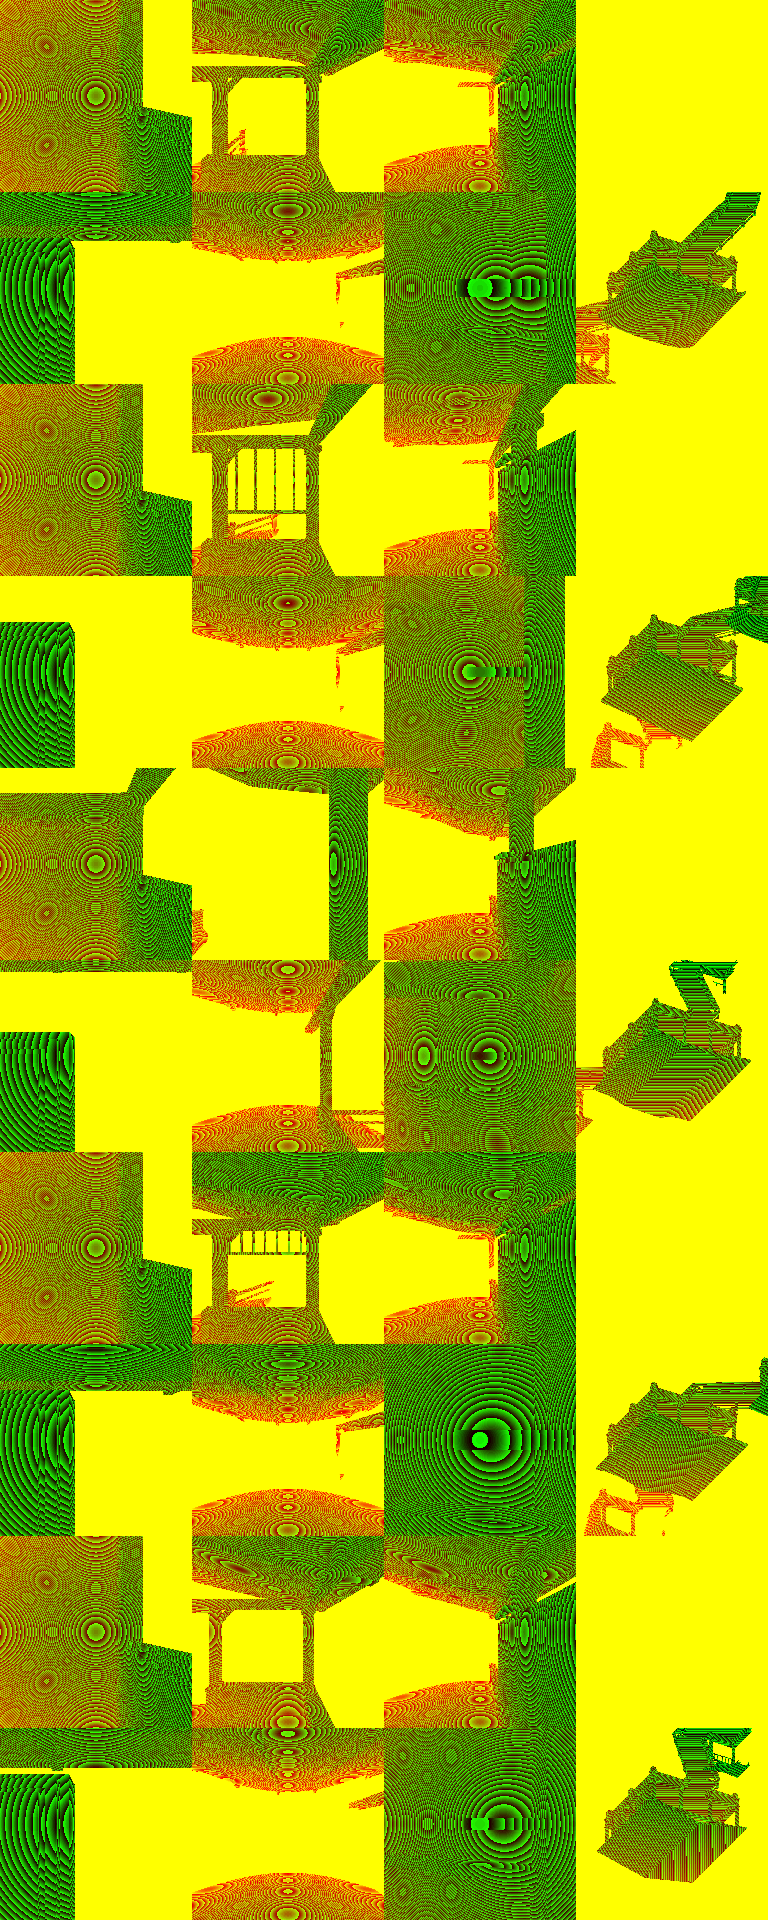
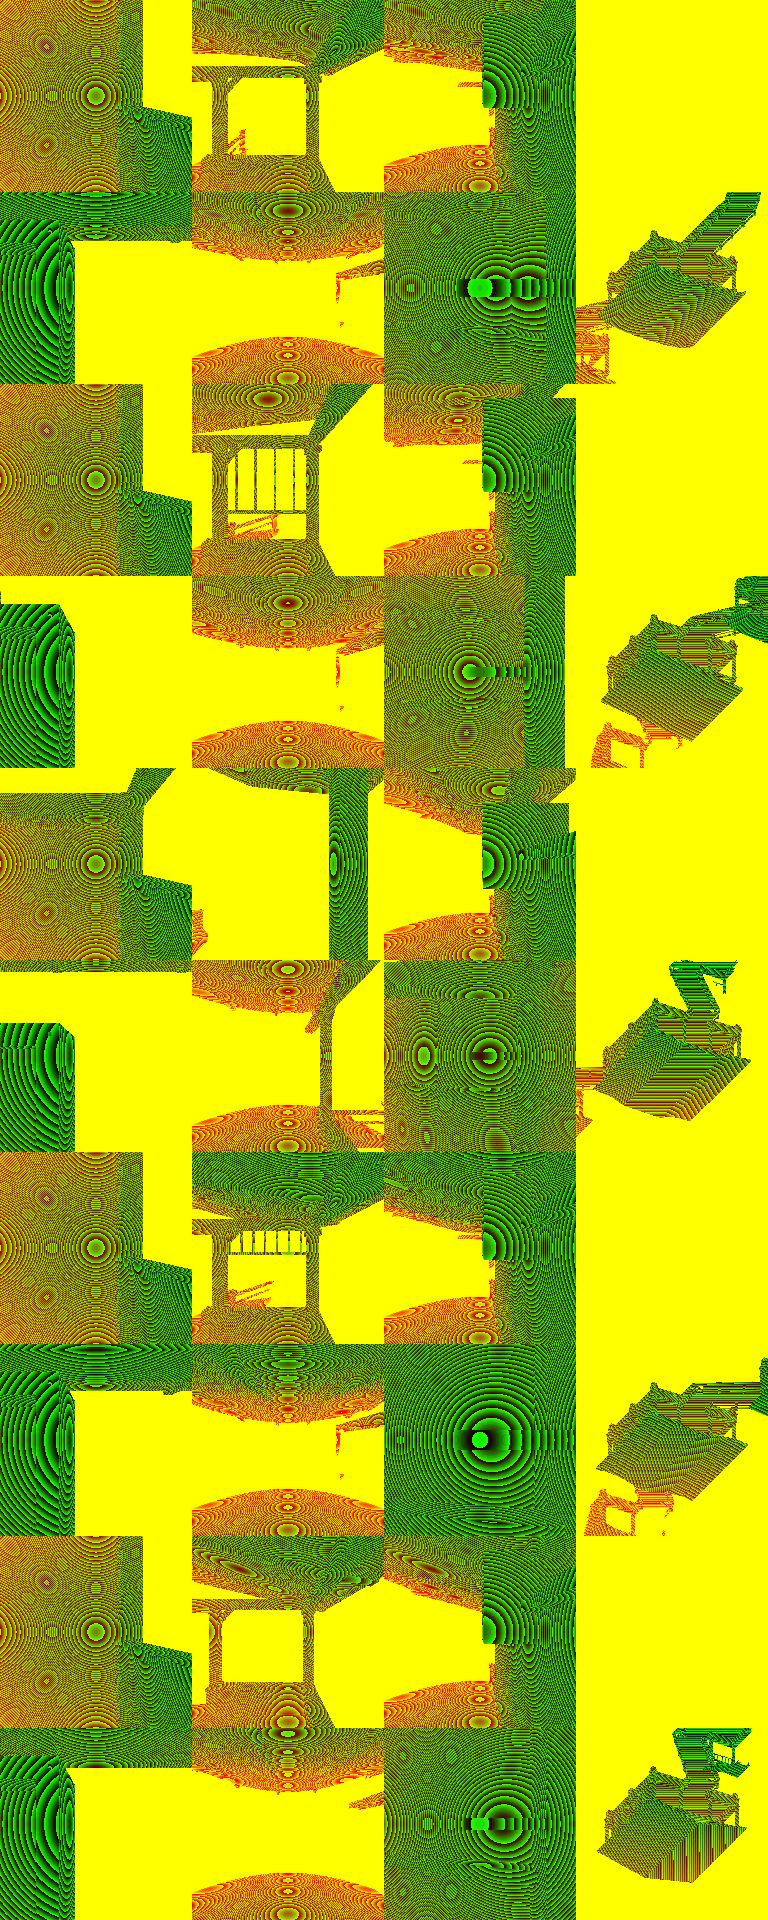
Rebuild memorial gallery frames and picture lights

diff --git a/docs/garden.js b/docs/garden.js
@@ -468,8 +468,11 @@
     const edge = new T.MeshStandardMaterial({map:limestone,color:color('#84919c'),roughness:.66});
     const bronze = new T.MeshStandardMaterial({color:color('#bc9b71'),roughness:.43,metalness:.28});
     const linen = new T.MeshStandardMaterial({color:color('#c4b7a5'),roughness:1});
+    const frameOak=new T.MeshStandardMaterial({color:color('#62564c'),roughness:.73});
     const pictureMetal=new T.MeshStandardMaterial({color:color('#62503d'),roughness:.49,metalness:.38});
-    const pictureBulb=new T.MeshBasicMaterial({color:color('#ffd490')});
+    const pictureBrass=new T.MeshStandardMaterial({color:color('#a68a58'),roughness:.42,metalness:.67});
+    const pictureBulb=new T.MeshBasicMaterial({color:color('#fff0c7'),toneMapped:false});
+    const frameScrew=new T.MeshStandardMaterial({color:color('#494745'),roughness:.57,metalness:.55});
     const blockers=[];
     function blockWalking(x,z,width,depth){
       blockers.push({x,z,halfWidth:width/2,halfDepth:depth/2});
@@ -491,32 +494,50 @@
     photoUniforms.photograph.value=atlasMap;
     atlasMap.encoding=T.sRGBEncoding;atlasMap.anisotropy=Math.min(8,renderer.capabilities.getMaxAnisotropy());
     const photoMat=new T.MeshStandardMaterial({
-      map:atlasMap,emissiveMap:atlasMap,emissive:color('#efe2cf'),emissiveIntensity:.12,
+      map:atlasMap,emissiveMap:atlasMap,emissive:color('#efe2cf'),emissiveIntensity:.074,
       color:color('#f1e6d6'),roughness:.96
     });
     const pictureGlass=new T.ShaderMaterial({
       transparent:true,depthWrite:false,
-      uniforms:{nearbyLantern:{value:new T.Vector3()}},
+      uniforms:{galleryReflections:{value:Array.from({length:4},()=>new T.Vector4())}},
       vertexShader:`varying vec3 glassPosition,glassNormal;
+        varying vec2 glassUV;
         void main(){
           glassPosition=(modelMatrix*vec4(position,1.)).xyz;
           glassNormal=mat3(modelMatrix)*normal;
+          glassUV=uv;
           gl_Position=projectionMatrix*modelViewMatrix*vec4(position,1.);
         }`,
-      fragmentShader:`uniform vec3 nearbyLantern;
+      fragmentShader:`uniform vec4 galleryReflections[4];
         varying vec3 glassPosition,glassNormal;
+        varying vec2 glassUV;
+        float grain(vec2 p){return fract(52.9829189*fract(dot(p,vec2(.06711056,.00583715))));}
         void main(){
           vec3 view=normalize(cameraPosition-glassPosition);
           vec3 normal=normalize(glassNormal);
           vec3 reflectedRay=reflect(-view,normal);
-          float fresnel=.009+.13*pow(1.-max(dot(view,normal),0.),5.);
-          float glint=pow(max(dot(reflectedRay,normalize(nearbyLantern-glassPosition)),0.),54.);
-          vec3 sky=mix(vec3(.035,.064,.107),vec3(.12,.20,.30),smoothstep(-.22,.40,reflectedRay.y));
-          gl_FragColor=vec4(mix(sky,vec3(.88,.38,.11),glint),fresnel+.048*glint);
+          float grazing=pow(1.-max(dot(view,normal),0.),5.);
+          float glint=0.;
+          for(int i=0;i<4;i++){
+            vec4 lamp=galleryReflections[i];
+            vec3 delta=lamp.xyz-glassPosition;
+            float dist=max(.35,length(delta));
+            float cone=1.-dot(reflectedRay,delta/dist);
+            float size=max(.015,lamp.w*.47/dist);
+            glint+=exp(-1.20*cone/(size*size))*step(.01,lamp.w)*(1.-smoothstep(5.,14.,dist));
+          }
+          vec2 reflectedSky=vec2(atan(reflectedRay.z,reflectedRay.x),reflectedRay.y)*vec2(52.,66.);
+          float star=step(.988,grain(floor(reflectedSky)))*exp(-22.*dot(fract(reflectedSky)-.5,fract(reflectedSky)-.5));
+          float skyHeight=smoothstep(-.15,.44,reflectedRay.y);
+          float dust=step(.989,grain(floor(glassUV*385.)))*(.16+.70*grazing);
+          float sheen=.007+.105*grazing+.011*dust;
+          vec3 sky=mix(vec3(.028,.053,.082),vec3(.17,.25,.36),skyHeight)+star*.25*skyHeight;
+          float warm=min(1.,glint)*(.078+.075*grazing);
+          gl_FragColor=vec4(mix(sky,vec3(1.,.55,.21),warm/max(.001,sheen+warm)),sheen+warm);
           #include <encodings_fragment>
         }`
     });
-    const portraits=[];
+    const portraits=[],glazedFrames=[];
     // The shade is a closed paper envelope at the top and open at its bamboo hoop.
     const lanterns=[], fixtures=[];
     const paperMap=painted(256,(ctx,n)=>{
@@ -615,7 +636,7 @@
     function shadowVariant(mode=shadowValues?.riverShadowMode.value ?? 0){
       return mode===0?'off':'map';
     }
-    function finishRailing(shader,finish){
+    function finishJoinery(shader,finish){
       const axes=finish.horizontal?'xzy':'xyz';
       const varyings='varying vec4 railPosition;\nvarying vec3 railNormal;\n';
       shader.uniforms.railFinishMap={value:finish.map};
@@ -698,12 +719,13 @@
         const isStone=material.map===limestone;
         const isCap=material===edge;
         const isPrint=material===photoMat,isMat=material===linen,isDeck=material===timber;
-        const railFinish=railingFinishes.get(material);
+        const isFrame=material===frameOak;
+        const grainFinish=joineryFinishes.get(material);
         const isDeckTrim=material===headerPlank || material===walkwayTrim;
-        const exterior=isStone || isDeck || railFinish || isDeckTrim;
-        const profile=isStone?'stone':isPrint?'print':isMat?'mat':isDeck?'deck':isDeckTrim?'deck-trim':'lanterns';
+        const exterior=isStone || isDeck || isDeckTrim || (grainFinish && material!==uprightCedar);
+        const profile=isStone?'stone':isPrint?'print':isMat?'mat':isFrame?'frame':isDeck?'deck':isDeckTrim?'deck-trim':'lanterns';
         material.customProgramCacheKey=()=>'river-'+profile+'-'+shadowVariant()+(movingEnabled?'-moving':'')
-          +(railFinish?'-railing-'+material.id:exterior?'-exterior':'');
+          +(grainFinish?'-joinery-'+material.id:exterior?'-exterior':'');
         material.onBeforeCompile=shader=>{
           const variant=shadowVariant(),castShadows=variant!=='off';
           addRiverMist(shader);
@@ -817,23 +839,53 @@
             roughnessFactor=mix(roughnessFactor,${isStone?'.39':'.31'},wetness*.74);
           `);
           if(castShadows)riverShadows.receive(T,shader,shadowValues,rooms.length);
-          if(isPrint || isMat){
+          if(isPrint || isMat || isFrame){
             // Light from the bar above each frame falls across the print and mat.
             const pictureVarying='varying vec3 pictureFace;\n';
-            shader.vertexShader=pictureVarying+(isPrint?'attribute vec2 pictureUV;\n':'')
+            shader.vertexShader=pictureVarying+'attribute vec2 pictureUV;\n'
+              +(isFrame?'varying vec2 frameUV;\n':'')
               +shader.vertexShader.replace('#include <begin_vertex>',`
               #include <begin_vertex>
-              pictureFace=vec3(${isPrint?'pictureUV,1.':'position.xy+.5,max(normal.z,0.)'});
+              pictureFace=vec3(pictureUV,max(0.,normal.z));
+              ${isFrame?'frameUV=uv;':''}
             `);
             shader.fragmentShader=pictureVarying+shader.fragmentShader.replace('#include <lights_fragment_maps>',`
               #include <lights_fragment_maps>
-              float down=clamp(1.-pictureFace.y,0.,1.);
-              float spread=mix(.35,.71,sqrt(down));
-              float beam=1.-smoothstep(spread*.36,spread,abs(pictureFace.x-.5));
-              float wash=beam/(1.+1.1*down);
-              vec3 pictureLight=vec3(1.,.78,.59)*pictureFace.z*(.86+1.75*wash);
+              float down=max(.035,1.14-pictureFace.y);
+              float spread=mix(.28,.83,sqrt(min(1.,down)));
+              float beam=1.-smoothstep(spread*.43,spread,abs(pictureFace.x-.5));
+              float wash=beam/(1.+2.5*down+1.3*down*down);
+              vec3 pictureLight=vec3(1.,.84,.66)*pictureFace.z*(${isFrame?'.06+2.7*wash':'.39+2.8*wash'});
               reflectedLight.directDiffuse+=BRDF_Diffuse_Lambert(material.diffuseColor)*pictureLight;
             `);
+          }
+          if(isMat || isPrint)shader.fragmentShader=shader.fragmentShader.replace('#include <color_fragment>',`
+            #include <color_fragment>
+            vec2 paperCell=floor(pictureFace.xy*vec2(750.,560.));
+            float paperNoise=fract(52.9829189*fract(dot(paperCell,vec2(.06711056,.00583715))));
+            float detail=1.-smoothstep(.55,2.2,max(fwidth(pictureFace.x)*750.,fwidth(pictureFace.y)*560.));
+            float lip=min(abs(.5-abs(pictureFace.x-.5)),abs(.5-abs(pictureFace.y-.5)));
+            float rebate=smoothstep(0.,.027,lip);
+            diffuseColor.rgb*=mix(${isMat?'.82':'.87'},1.,rebate)*(1.+${isMat?'.20':'.026'}*(paperNoise-.5)*detail);
+          `);
+          if(isFrame){
+            shader.uniforms.oakGrain={value:railGrain};
+            shader.fragmentShader='varying vec2 frameUV;uniform sampler2D oakGrain;\n'+shader.fragmentShader
+              .replace('#include <color_fragment>',`
+                #include <color_fragment>
+                vec3 fibre=texture2D(oakGrain,frameUV).rgb;
+                float stains=texture2D(oakGrain,frameUV*vec2(.44,.57)+.31).b;
+                diffuseColor.rgb*=mix(.52,1.34,smoothstep(.21,.80,fibre.b))*mix(.69,1.22,stains);
+              `).replace('#include <roughnessmap_fragment>',`
+                #include <roughnessmap_fragment>
+                roughnessFactor=clamp(roughnessFactor+.39*(fibre.g-.46),.50,.91);
+              `).replace('#include <normal_fragment_maps>',`
+                #include <normal_fragment_maps>
+                vec3 dx=dFdx(-vViewPosition),dy=dFdy(-vViewPosition);
+                vec3 tx=cross(dy,normal),ty=cross(normal,dx);
+                float det=dot(dx,tx),relief=.0014*fibre.r+.0007*stains;
+                normal=normalize(max(abs(det),1e-7)*normal-sign(det)*(tx*dFdx(relief)+ty*dFdy(relief)));
+              `);
           }
           if(isDeck){
             shader.uniforms.boardGrainMap={value:railGrain};
@@ -945,7 +997,7 @@
               normal=normalize(max(abs(stoneDet),1e-7)*normal-microRelief);
             `);
           }
-          if(railFinish)finishRailing(shader,railFinish);
+          if(grainFinish)finishJoinery(shader,grainFinish);
           if(exterior){
             shader.fragmentShader=shader.fragmentShader.replace('#include <lights_fragment_maps>',`
               #include <lights_fragment_maps>
@@ -1235,9 +1287,7 @@
     const cedar=new T.MeshStandardMaterial({
       map:cedarMap,bumpMap:cedarMap,bumpScale:.011,roughnessMap:cedarFinish,roughness:.83,color:color('#b58d72')
     });
-    const uprightCedar=cedar.clone();
-    uprightCedar.bumpScale=.014;
-    uprightCedar.roughness=.73;
+    const uprightCedar=new T.MeshStandardMaterial({color:color('#795f52'),roughness:.72});
     const railWood=new T.MeshStandardMaterial({color:color('#805743'),roughness:.54});
     const plinth=new T.MeshStandardMaterial({color:color('#35434f'),roughness:.69,vertexColors:true});
     const railCap=new T.MeshStandardMaterial({color:color('#a88b63'),roughness:.40,metalness:1});
@@ -1288,7 +1338,9 @@
     walkwayTrim.color.copy(color('#afaaa1'));
     const headerPlank=timber.clone();
     headerPlank.color.copy(color('#b3aea5'));
-    const railingFinishes=new Map([
+    const joineryFinishes=new Map([
+      [uprightCedar,{map:railGrain,scale:'vec3(1.85,.59,1.85)',wear:'.09',relief:'.00082'}],
+      [pictureBrass,{map:castFinish,scale:'vec3(5.3)',wear:'.24',relief:'.00058',patina:true}],
       [railWood,{map:railGrain,horizontal:true,scale:'vec3(3.7,.65,3.7)',wear:'.18',relief:'.00094'}],
       [plinth,{map:railGrain,scale:'vec3(4.2,1.05,4.2)',wear:'.25',relief:'.00120',groundContact:true}],
       [railCap,{map:castFinish,scale:'vec3(4.6)',wear:'.32',relief:'.00062',patina:true}],
@@ -1487,6 +1539,44 @@
         uv.setXY(j,(ax+.5+uv.getX(j)*(aw-1))/2048,1-(ay+.5+(1-uv.getY(j))*(ah-1))/2048);
       return geo;
     }
+    function frameBorder(w,h,profile,miter=0){
+      const positions=[],grain=[],picture=[];
+      const corners=[[-1,-1],[1,-1],[1,1],[-1,1]];
+      for(let side=0;side<4;side++){
+        const [sx,sy]=corners[side],[ex,ey]=corners[(side+1)%4];
+        const horizontal=sy===ey;
+        const rings=profile.map(([margin,depth])=>{
+          const x=w/2+margin,y=h/2+margin;
+          const a=[sx*x+(ex-sx)*miter/2,sy*y+(ey-sy)*miter/2,depth];
+          const b=[ex*x-(ex-sx)*miter/2,ey*y-(ey-sy)*miter/2,depth];
+          return [a,b,margin];
+        });
+        for(let i=0;i<rings.length;i++){
+          const [a,b,outer]=rings[i],[c,d,inner]=rings[(i+1)%rings.length];
+          for(const [point,margin] of [[a,outer],[b,outer],[d,inner],[a,outer],[d,inner],[c,inner]]){
+            positions.push(...point);
+            grain.push((margin+point[2]*.24)*6.9+side*.29,(horizontal?point[0]:point[1])*.77+side*.37);
+            picture.push(point[0]/w+.5,point[1]/h+.5);
+          }
+        }
+      }
+      const geometry=new T.BufferGeometry();
+      geometry.setAttribute('position',new T.Float32BufferAttribute(positions,3));
+      geometry.setAttribute('uv',new T.Float32BufferAttribute(grain,2));
+      geometry.setAttribute('pictureUV',new T.Float32BufferAttribute(picture,2));
+      geometry.computeVertexNormals();
+      return geometry;
+    }
+    const oakProfile=[
+      [.207,-.066],[.210,-.056],[.210,.077],[.202,.097],[.190,.102],
+      [.118,.102],[.109,.090],[.105,.074],[.105,.032],[.129,-.066]
+    ];
+    const paperProfile=[[.130,.018],[.130,.061],[.008,.061],[-.002,.041],[-.002,.026]];
+    const pictureTube=new T.CylinderGeometry(.5,.5,1,24);
+    const pictureArm=new T.TubeGeometry(new T.CatmullRomCurve3([
+      new T.Vector3(0,-.031,-.091),new T.Vector3(0,.054,-.019),
+      new T.Vector3(0,.103,.101),new T.Vector3(0,.056,.188),new T.Vector3(0,.010,.205)
+    ]),18,.013,8,false);
     function roomSign(room,x,y,headerFace){
       const c=document.createElement('canvas');c.width=768;c.height=120;
       const ctx=c.getContext('2d');ctx.fillStyle='#182c37';ctx.fillRect(0,0,768,120);
@@ -1570,10 +1660,16 @@
         const ph=Math.min(1.72,2.48*ah/aw),pw=ph*aw/ah,mid=1.86;
         const backingX=px+.14*side;
         batch(beam,darkTimber,backingX,mid,pz,pw+.42,ph+.42,.16,angle);
-        batch(trim,cedar,px+.078*side,mid,pz,pw+.31,ph+.31,.15,angle);
-        batch(trim,bronze,px+.039*side,mid,pz,pw+.19,ph+.19,.097,angle);
-        batch(trim,linen,px,mid,pz,pw+.14,ph+.14,.06,angle);
-        blockWalking(px+.085*side,pz,.27,pw+.42);
+        for(const [profile,material,miter] of [[oakProfile,frameOak,.0018],[paperProfile,linen,0]]){
+          const border=new T.Mesh(frameBorder(pw,ph,profile,miter),material);
+          border.position.set(px,mid,pz);border.rotation.y=angle;
+          scene.add(reflected(border));
+        }
+        for(const sign of [-1,1]){
+          bounceBox(frameOak,px-.018*side,mid+sign*(ph/2+.157),pz,pw+.42,.105,.168,angle);
+          bounceBox(frameOak,px-.018*side,mid,pz+sign*(pw/2+.157),.105,ph+.21,.168,angle);
+        }
+        blockWalking(px+.058*side,pz,.322,pw+.42);
         const wallX=x+side*wallReach,base=wallCapTop,frameBottom=mid-(ph+.42)/2;
         const hangerTop=frameBottom+.27;
         // Seat the arms in the rear timber and the uprights behind it.
@@ -1583,26 +1679,30 @@
           batch(trim,pictureMetal,wallX,base+.018,pz+dz,.20,.039,.15);
           batch(trim,pictureMetal,wallX,(base+hangerTop)/2,pz+dz,.079,hangerTop-base,.088);
           batch(trim,pictureMetal,(armSeat+armEnd)/2,hangerTop,pz+dz,Math.abs(armEnd-armSeat),.070,.108);
+          batch(trim,frameScrew,px-.104*side,frameBottom+.035,pz+dz,.023,.114,.072);
+          batch(pictureTube,frameScrew,px-.12*side,frameBottom+.068,pz+dz,.015,.009,.015,0,Math.PI/2);
         }
-        const pictureX=px-.198*side,pictureY=mid+ph/2+.18;
-        const lightWidth=Math.min(.77,pw*.51);
-        batch(trim,pictureMetal,pictureX,pictureY,pz,.103,.069,lightWidth);
-        batch(trim,pictureBulb,pictureX,pictureY-.034,pz,.045,.012,lightWidth-.065);
-        for(const dz of [-lightWidth*.31,lightWidth*.31]){
-          batch(trim,pictureMetal,px+.079*side,pictureY-.046,pz+dz,.078,.129,.072);
-          batch(trim,pictureMetal,px-.057*side,pictureY,pz+dz,.287,.029,.035);
+        for(const dx of [-1,1])for(const dy of [-1,1]){
+          batch(pictureTube,frameScrew,px-.106*side,mid+dy*(ph/2+.157),pz+dx*(pw/2+.171),
+            .015,.008,.015,0,Math.PI/2);
         }
+        const pictureX=px-.207*side,pictureY=mid+ph/2+.272;
+        const lightWidth=Math.min(.92,pw*.59);
+        batch(pictureTube,pictureBrass,pictureX,pictureY,pz,.090,lightWidth,.090,Math.PI/2,Math.PI/2);
+        for(const dz of [-lightWidth/2,lightWidth/2]){
+          batch(pictureTube,pictureBrass,pictureX,pictureY,pz+dz,.103,.021,.103,Math.PI/2,Math.PI/2);
+        }
+        batch(trim,pictureBulb,pictureX+side*.005,pictureY-.046,pz,.046,.012,lightWidth-.045);
+        batch(pictureArm,pictureBrass,px,pictureY,pz,1,1,1,angle);
+        batch(trim,frameScrew,px+.083*side,pictureY-.018,pz,.038,.130,.082);
         const pic=new T.Mesh(photoGeometry(id,pw,ph),photoMat);
-        pic.position.set(px-.043*side,mid,pz);pic.rotation.y=angle;pic.userData.index=stations.length;
-        scene.add(pic);portraits.push(pic);stations.push({x:px-side*3.55,z:pz,angle,room});
+        pic.position.set(px-.037*side,mid,pz);pic.rotation.y=angle;pic.userData.index=stations.length;
+        scene.add(reflected(pic));portraits.push(pic);stations.push({x:px-side*3.55,z:pz,angle,room});
         const lampX=px-side*.54,lampZ=pz+pw/2+.38;
-        const glass=new T.Mesh(new T.PlaneGeometry(pw+.095,ph+.095),pictureGlass);
-        glass.position.set(px-.050*side,mid,pz);
+        const glass=new T.Mesh(new T.PlaneGeometry(pw+.216,ph+.216),pictureGlass);
+        glass.position.set(px-.073*side,mid,pz);
         glass.rotation.y=angle;
-        glass.onBeforeRender=()=>{
-          pictureGlass.uniforms.nearbyLantern.value.set(lampX,2.62,lampZ);
-          pictureGlass.uniformsNeedUpdate=true;
-        };
+        glazedFrames.push({glass,side});
         scene.add(glass);
         batch(beam,darkTimber,(wallX+lampX)*.5,h-.045,lampZ,.94,.098,.106);
         const lamp=lantern(lampX,2.45,lampZ,.54,true,h+.37,h-.094);
@@ -1942,7 +2042,23 @@
       const angle=fullTurn*(i+rand()*.7)/44,dist=14+rand()*15;
       lantern(Math.sin(angle)*dist,4+rand()*7,-Math.cos(angle)*dist,.55+rand()*1.12);
     }
-    const architectureMaterials=[stone,edge,bronze,plinth,linen,photoMat,pictureMetal,timber,blueTiles,
+    for(const {glass,side} of glazedFrames){
+      const at=glass.position;
+      const nearby=lanterns.filter(lamp=>(at.x-lamp.x)*side>.40)
+        .map(lamp=>({lamp,distance:Math.hypot(at.x-lamp.x,at.y-lamp.y,at.z-lamp.z)}))
+        .filter(({distance})=>distance<14).sort((a,b)=>a.distance-b.distance).slice(0,4);
+      glass.onBeforeRender=()=>{
+        pictureGlass.uniforms.galleryReflections.value.forEach((slot,i)=>{
+          const lamp=nearby[i]?.lamp;
+          if(lamp){
+            const {x,y,z}=lamp.glow.position;
+            slot.set(x,y,z,lamp.size);
+          }else slot.set(0,0,0,0);
+        });
+        pictureGlass.uniformsNeedUpdate=true;
+      };
+    }
+    const architectureMaterials=[stone,edge,bronze,plinth,linen,frameOak,photoMat,pictureMetal,pictureBrass,frameScrew,timber,blueTiles,
       cedar,uprightCedar,walkwayTrim,headerPlank,railWood,lowerRail,railFoot,railCap,plaster,darkTimber,mortar];
     if(supportsShadows)shadowValues=riverShadows.uniforms(T,rooms,shadowLamps,moonDirection.value);
     lightArchitecture(architectureMaterials);
@@ -2206,8 +2322,8 @@
       try{
         if(mode>0){
           const [mask,depth]=await Promise.all([
-            loadShadowTexture('river-shadow-mask.png?v=recessed-photo-mounts'),
-            mode>1?loadShadowTexture('river-shadow-depth.png?v=recessed-photo-mounts',true):null
+            loadShadowTexture('river-shadow-mask.png?v=gallery-frames'),
+            mode>1?loadShadowTexture('river-shadow-depth.png?v=gallery-frames',true):null
           ]);
           if(selection!==shadowSelection)return;
           shadowValues.riverShadowMask.value=mask;

diff --git a/docs/index.html b/docs/index.html
@@ -18,7 +18,7 @@
 <script defer src="river-audio.js?v=soaked"></script>
 <script defer src="river-gi.js?v=bridge-joins"></script>
 <script defer src="river-shadows.js?v=bridge-lanterns"></script>
-<script defer src="garden.js?v=woodland-bank"></script>
+<script defer src="garden.js?v=gallery-frame-light"></script>
 </head>
 <body>
 <header><div class="navwrap"><a class="wordmark" href="#desk"><span class="paw" aria-hidden="true"><i></i><i></i><i></i><i></i><b></b></span> Her desk</a>
